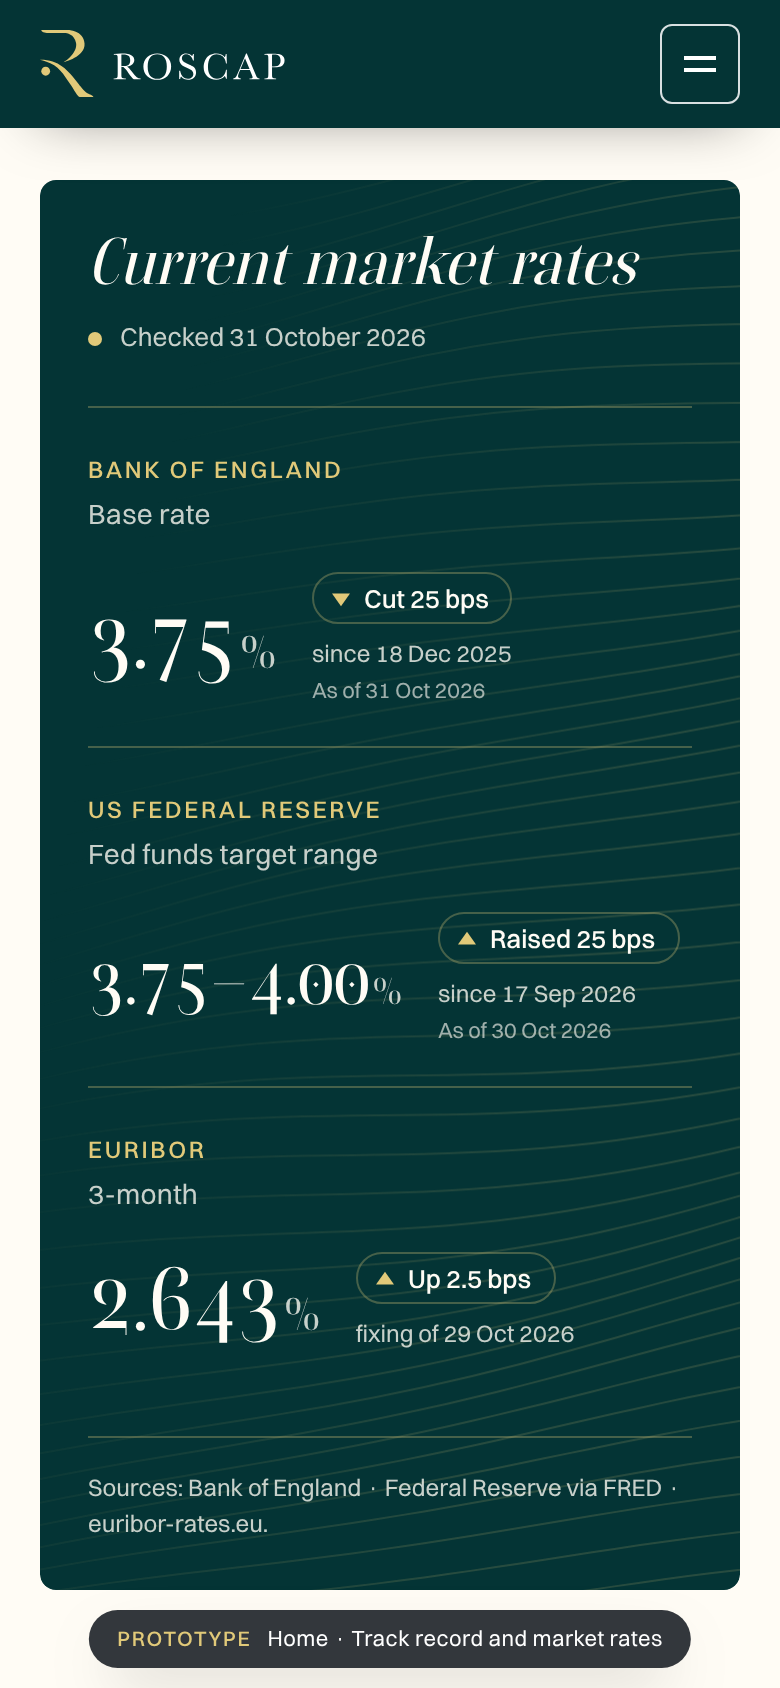
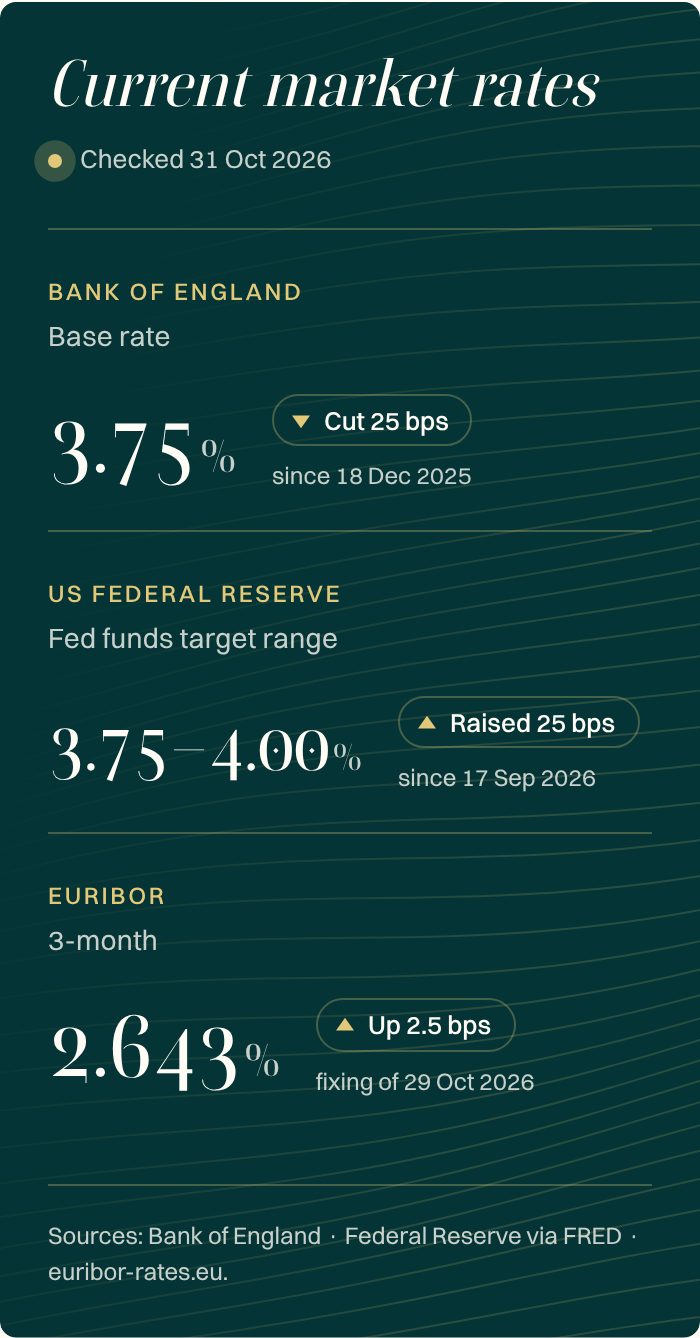
prototypes: homepage rates panel shows only the 'since' date
Owner's call: drop the separate 'As of' line under each rate; the panel
now reads chip plus 'since 18 Dec 2025' (BoE), 'since 17 Sep 2026' (Fed)
and 'fixing of 29 Oct 2026' (EURIBOR). The as-of slot stays empty unless
a rate goes stale, when 'Last data ..., awaiting update' still appears.
Webflow paste files, handoff and screenshots updated.

Claude-Session: https://claude.ai/code/session_01UyS4LUur6hqx12dzE5RxWv

diff --git a/prototypes/homepage-track-record-and-rates/homepage-track-record-and-rates.bundle.html b/prototypes/homepage-track-record-and-rates/homepage-track-record-and-rates.bundle.html
@@ -570,7 +570,7 @@ textarea.field{height:136px;padding:22px 24px;resize:none;line-height:1.45}
                 <p class="rate-move">
                   <span class="chip" id="changerate-boe"><svg viewBox="0 0 10 10" aria-hidden="true"><path d="M0 2h10L5 9z"/></svg><span class="chip-t">Cut 25 bps</span></span>
                   <span class="rate-date" id="changedate-boe">since 18 Dec 2025</span>
-                  <span class="rate-asof" id="asof-boe">As of 31 Oct 2026</span>
+                  <span class="rate-asof" id="asof-boe" hidden></span>
                 </p>
               </div>
             </li>
@@ -581,7 +581,7 @@ textarea.field{height:136px;padding:22px 24px;resize:none;line-height:1.45}
                 <p class="rate-move">
                   <span class="chip" id="changerate-fed"><svg viewBox="0 0 10 10" aria-hidden="true"><path d="M0 8h10L5 1z"/></svg><span class="chip-t">Raised 25 bps</span></span>
                   <span class="rate-date" id="changedate-fed">since 17 Sep 2026</span>
-                  <span class="rate-asof" id="asof-fed">As of 30 Oct 2026</span>
+                  <span class="rate-asof" id="asof-fed" hidden></span>
                 </p>
               </div>
             </li>
@@ -912,7 +912,7 @@ textarea.field{height:136px;padding:22px 24px;resize:none;line-height:1.45}
      #baserate-{key}         the number; data-from holds the digits the odometer rolls in from ("0.00")
      #changerate-{key}       the movement chip ("Cut 25 bps", "Raised 25 bps", "Up 2.5 bps")
      #changedate-{key}       the line under the chip ("since 18 Dec 2025", "fixing of 29 Oct 2026")
-     #asof-{key}             the data date ("As of 31 Oct 2026"; "Last data 21 Oct 2026, awaiting update" when stale)
+     #asof-{key}             empty and hidden normally; "Last data 21 Oct 2026, awaiting update" only when that rate is stale
      #rates-updated          "Checked 31 Oct 2026" (the feed's check time); shown only once the feed validated
    key = boe | fed | euribor
    #rates-panel carries data-state = loading | live | stale | error for styling hooks. */
@@ -1101,7 +1101,7 @@ textarea.field{height:136px;padding:22px 24px;resize:none;line-height:1.45}
       view.chip = (change > 0 ? 'Raised ' : 'Cut ') + bps(change) + ' bps';
       view.dir = change > 0 ? 1 : -1;
       view.date = 'since ' + fmtDate(rate.changed_on);
-      view.asOfLine = 'As of ' + fmtDate(asOf);
+      view.asOfLine = ''; /* no separate data-date line: the 'since' date says it (owner's call, 31 Oct 2026) */
     }
     if (view.stale) view.asOfLine = 'Last data ' + fmtDate(asOf) + ', awaiting update';
     return view;

diff --git a/prototypes/homepage-track-record-and-rates/webflow/home-footer.html b/prototypes/homepage-track-record-and-rates/webflow/home-footer.html
@@ -11,7 +11,7 @@
      #baserate-{key}         the number; data-from holds the digits the odometer rolls in from ("0.00")
      #changerate-{key}       the movement chip ("Cut 25 bps", "Raised 25 bps", "Up 2.5 bps")
      #changedate-{key}       the line under the chip ("since 18 Dec 2025", "fixing of 29 Oct 2026")
-     #asof-{key}             the data date ("As of 31 Oct 2026"; "Last data 21 Oct 2026, awaiting update" when stale)
+     #asof-{key}             empty and hidden normally; "Last data 21 Oct 2026, awaiting update" only when that rate is stale
      #rates-updated          "Checked 31 Oct 2026" (the feed's check time); shown only once the feed validated
    key = boe | fed | euribor
    #rates-panel carries data-state = loading | live | stale | error for styling hooks. */
@@ -200,7 +200,7 @@
       view.chip = (change > 0 ? 'Raised ' : 'Cut ') + bps(change) + ' bps';
       view.dir = change > 0 ? 1 : -1;
       view.date = 'since ' + fmtDate(rate.changed_on);
-      view.asOfLine = 'As of ' + fmtDate(asOf);
+      view.asOfLine = ''; /* no separate data-date line: the 'since' date says it (owner's call, 31 Oct 2026) */
     }
     if (view.stale) view.asOfLine = 'Last data ' + fmtDate(asOf) + ', awaiting update';
     return view;

diff --git a/prototypes/homepage-track-record-and-rates/rates.js b/prototypes/homepage-track-record-and-rates/rates.js
@@ -7,7 +7,7 @@
      #baserate-{key}         the number; data-from holds the digits the odometer rolls in from ("0.00")
      #changerate-{key}       the movement chip ("Cut 25 bps", "Raised 25 bps", "Up 2.5 bps")
      #changedate-{key}       the line under the chip ("since 18 Dec 2025", "fixing of 29 Oct 2026")
-     #asof-{key}             the data date ("As of 31 Oct 2026"; "Last data 21 Oct 2026, awaiting update" when stale)
+     #asof-{key}             empty and hidden normally; "Last data 21 Oct 2026, awaiting update" only when that rate is stale
      #rates-updated          "Checked 31 Oct 2026" (the feed's check time); shown only once the feed validated
    key = boe | fed | euribor
    #rates-panel carries data-state = loading | live | stale | error for styling hooks. */
@@ -196,7 +196,7 @@
       view.chip = (change > 0 ? 'Raised ' : 'Cut ') + bps(change) + ' bps';
       view.dir = change > 0 ? 1 : -1;
       view.date = 'since ' + fmtDate(rate.changed_on);
-      view.asOfLine = 'As of ' + fmtDate(asOf);
+      view.asOfLine = ''; /* no separate data-date line: the 'since' date says it (owner's call, 31 Oct 2026) */
     }
     if (view.stale) view.asOfLine = 'Last data ' + fmtDate(asOf) + ', awaiting update';
     return view;

diff --git a/prototypes/homepage-track-record-and-rates/index.html b/prototypes/homepage-track-record-and-rates/index.html
@@ -136,7 +136,7 @@
                 <p class="rate-move">
                   <span class="chip" id="changerate-boe"><svg viewBox="0 0 10 10" aria-hidden="true"><path d="M0 2h10L5 9z"/></svg><span class="chip-t">Cut 25 bps</span></span>
                   <span class="rate-date" id="changedate-boe">since 18 Dec 2025</span>
-                  <span class="rate-asof" id="asof-boe">As of 31 Oct 2026</span>
+                  <span class="rate-asof" id="asof-boe" hidden></span>
                 </p>
               </div>
             </li>
@@ -147,7 +147,7 @@
                 <p class="rate-move">
                   <span class="chip" id="changerate-fed"><svg viewBox="0 0 10 10" aria-hidden="true"><path d="M0 8h10L5 1z"/></svg><span class="chip-t">Raised 25 bps</span></span>
                   <span class="rate-date" id="changedate-fed">since 17 Sep 2026</span>
-                  <span class="rate-asof" id="asof-fed">As of 30 Oct 2026</span>
+                  <span class="rate-asof" id="asof-fed" hidden></span>
                 </p>
               </div>
             </li>

diff --git a/prototypes/homepage-track-record-and-rates/webflow/rates-panel.markup.html b/prototypes/homepage-track-record-and-rates/webflow/rates-panel.markup.html
@@ -19,7 +19,7 @@
                 <p class="rate-move">
                   <span class="chip" id="changerate-boe"><svg viewBox="0 0 10 10" aria-hidden="true"><path d="M0 2h10L5 9z"/></svg><span class="chip-t">Cut 25 bps</span></span>
                   <span class="rate-date" id="changedate-boe">since 18 Dec 2025</span>
-                  <span class="rate-asof" id="asof-boe">As of 31 Oct 2026</span>
+                  <span class="rate-asof" id="asof-boe" hidden></span>
                 </p>
               </div>
             </li>
@@ -30,7 +30,7 @@
                 <p class="rate-move">
                   <span class="chip" id="changerate-fed"><svg viewBox="0 0 10 10" aria-hidden="true"><path d="M0 8h10L5 1z"/></svg><span class="chip-t">Raised 25 bps</span></span>
                   <span class="rate-date" id="changedate-fed">since 17 Sep 2026</span>
-                  <span class="rate-asof" id="asof-fed">As of 30 Oct 2026</span>
+                  <span class="rate-asof" id="asof-fed" hidden></span>
                 </p>
               </div>
             </li>

diff --git a/prototypes/homepage-track-record-and-rates/HANDOFF.md b/prototypes/homepage-track-record-and-rates/HANDOFF.md
@@ -27,12 +27,12 @@ Keep the section and container. Replace `.baserate-cards-wrap` with the structur
 - Remove the three Webflow interactions that set `opacity:0` on the cards (`data-w-id`); the entrance is CSS now.
 - No canvas element is needed in the Designer: `rates.js` creates the wave canvas itself.
 
-Designer placeholders (what the page shows before the script runs, and if the feed fails): BoE `3.75` / chip `Cut 25 bps` / `since 18 Dec 2025` / `As of 31 Oct 2026`; Fed `3.75–4.00` / `Raised 25 bps` / `since 17 Sep 2026` / `As of 30 Oct 2026`; EURIBOR `2.643` / `Up 2.5 bps` / `fixing of 29 Oct 2026`; `Checked 31 Oct 2026`. Update them to the day's values when you publish; the script overwrites them within a second anyway.
+Designer placeholders (what the page shows before the script runs, and if the feed fails): BoE `3.75` / chip `Cut 25 bps` / `since 18 Dec 2025`; Fed `3.75–4.00` / `Raised 25 bps` / `since 17 Sep 2026`; EURIBOR `2.643` / `Up 2.5 bps` / `fixing of 29 Oct 2026`; `Checked 31 Oct 2026`. Update them to the day's values when you publish; the script overwrites them within a second anyway.
 
 Replacement footer script: the first `<script>` in `webflow/home-footer.html` (rates.js) replaces the current rates block (the one starting `document.addEventListener("DOMContentLoaded"... const FEED =`). Leave the Swiper and GSAP code above it untouched. What the new script does:
 
 - Fetches the feed once, validates every rate (numbers within 0 to 25, `display` matching `^\d+(\.\d+)?%( - \d+(\.\d+)?%)?$`, dates `YYYY-MM-DD`, `change` within 5 points, `changed_on` present for BoE and Fed), honours `rate.stale` and the top-level `stale` array, and treats `as_of` older than 10 days as stale.
-- Writes BoE and Fed as "Cut 25 bps" or "Raised 25 bps" with "since {changed_on}" (for the Fed this is FRED's effective date, 17 Sep 2026, not the FOMC meeting date, so the word "decision" is never used) and "As of {as_of}". EURIBOR gets "Up 2.5 bps" or "Down x bps" from `change` and "fixing of {as_of}". "Held" is never written: the feed only carries the last change.
+- Writes BoE and Fed as "Cut 25 bps" or "Raised 25 bps" with "since {changed_on}" (for the Fed this is FRED's effective date, 17 Sep 2026, not the FOMC meeting date, so the word "decision" is never used). There is no separate "As of" line: the owner asked for the "since" date alone (31 Oct 2026); the `#asof-*` elements stay empty and hidden unless a rate goes stale. EURIBOR gets "Up 2.5 bps" or "Down x bps" from `change` and "fixing of {as_of}". "Held" is never written: the feed only carries the last change.
 - "Checked 31 Oct 2026" is the feed's check time (the date part of the ISO `updated` stamp, written in the same short style as the rate dates; `updated_display` is the fallback), shown only after every rate validated. If any rate fails validation its placeholder stays and the Checked line is hidden (this is what the 21 Oct 2026 FRED incident needed). If the fetch fails, all placeholders stay and the Checked line is hidden. Never NaN or empty digits.
 - States for styling: `#rates-panel[data-state="loading|live|stale|error"]`. Stale rates show "Last data {as_of}, awaiting update" in gold.
 - Odometer rolls once when the panel enters the viewport (IntersectionObserver, 22 percent from the bottom); screen readers get the final value only ("3.75", "3.75 to 4.00", "2.643" plus the "%" unit).
